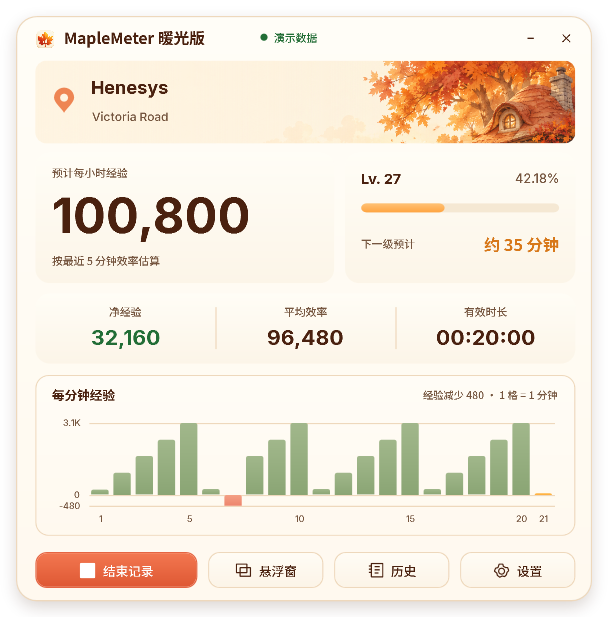
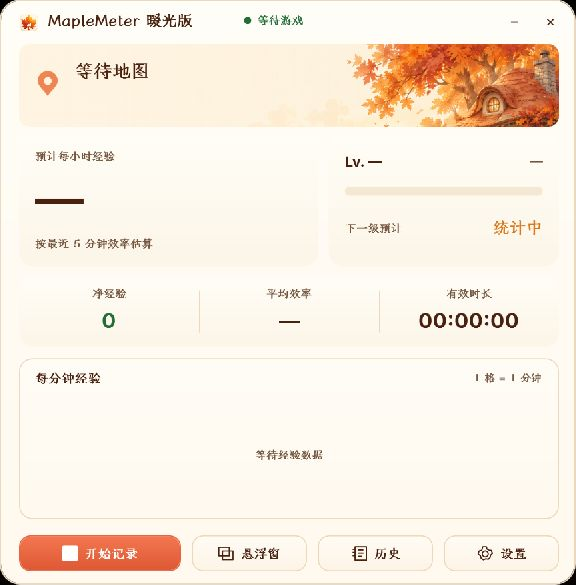
Use compact table gallery with actual app and history screenshots

diff --git a/README.md b/README.md
@@ -6,17 +6,15 @@
 
 **[下载最新版](https://github.com/Deliuu/MapleMeter-Warm/releases/latest)** · Windows x64
 
-> 目前仓库为私有，需要获得访问权限才能下载。其他服或其他客户端暂未保证兼容。
+
 
 ## 看看界面
 
-以下都是软件实际运行的界面，使用演示数据，不是个人游戏记录。
+以下为正常运行时的实际截图。当前未连接游戏，历史暂无记录；点击图片可查看大图。
 
-![主界面](docs/images/main.png)
-
-练级时也可以切换成置顶小窗：
-
-![悬浮窗](docs/images/compact.png)
+| 主界面 | 练级历史 | 外观设置 |
+| :---: | :---: | :---: |
+| <a href="docs/images/main.png"><img src="docs/images/main.png" width="250" alt="实际主界面"></a> | <a href="docs/images/history.png"><img src="docs/images/history.png" width="250" alt="实际练级历史窗口"></a> | <a href="docs/images/settings.png"><img src="docs/images/settings.png" width="220" alt="实际皮肤字体设置"></a> |
 
 ## 能做什么
 
@@ -25,13 +23,6 @@
 - **留记录**：查看历史与最近 7 / 30 天统计，也能导出 CSV。
 - **自动暂停**：15 秒没有游戏前台键鼠操作时暂停，识别到经验变化后恢复；也可以手动控制。
 - **换外观**：内置 **3 套皮肤**——静夜薄荷、枫糖暖光、晴空轻白；**2 套中文字体**——思源黑体、霞鹜文楷。英文和数字使用 Inter，界面大小也能调整。
-
-<details>
-<summary>展开查看皮肤、字体与缩放设置</summary>
-
-![外观设置](docs/images/settings.png)
-
-</details>
 
 ## 怎么用
 
